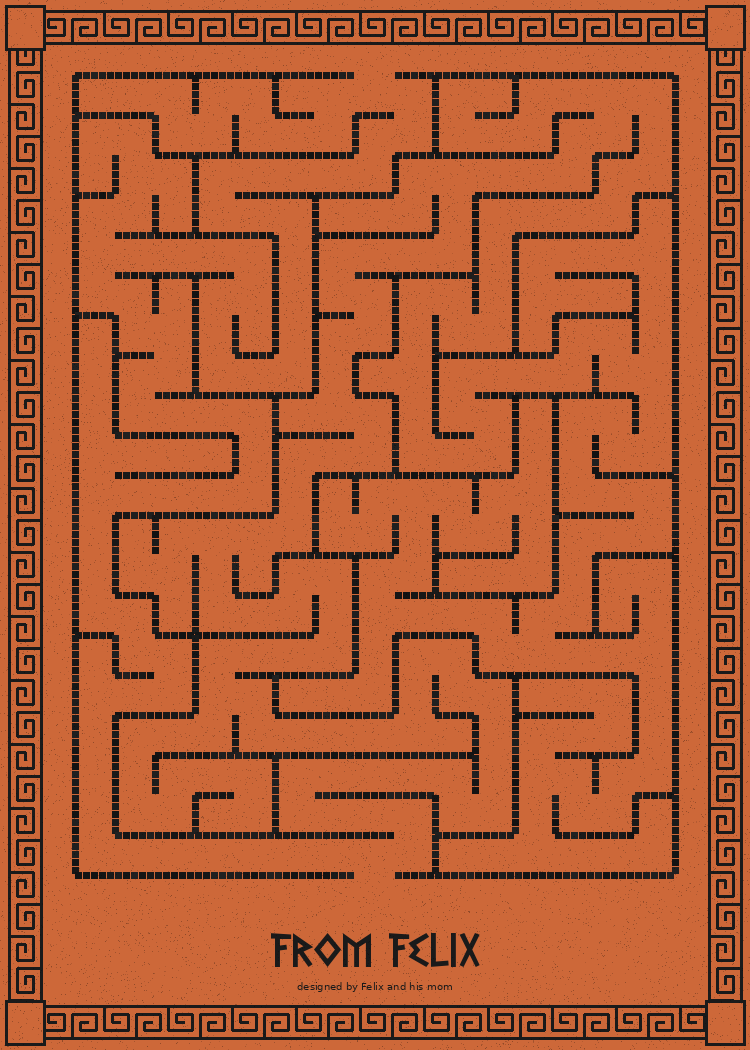
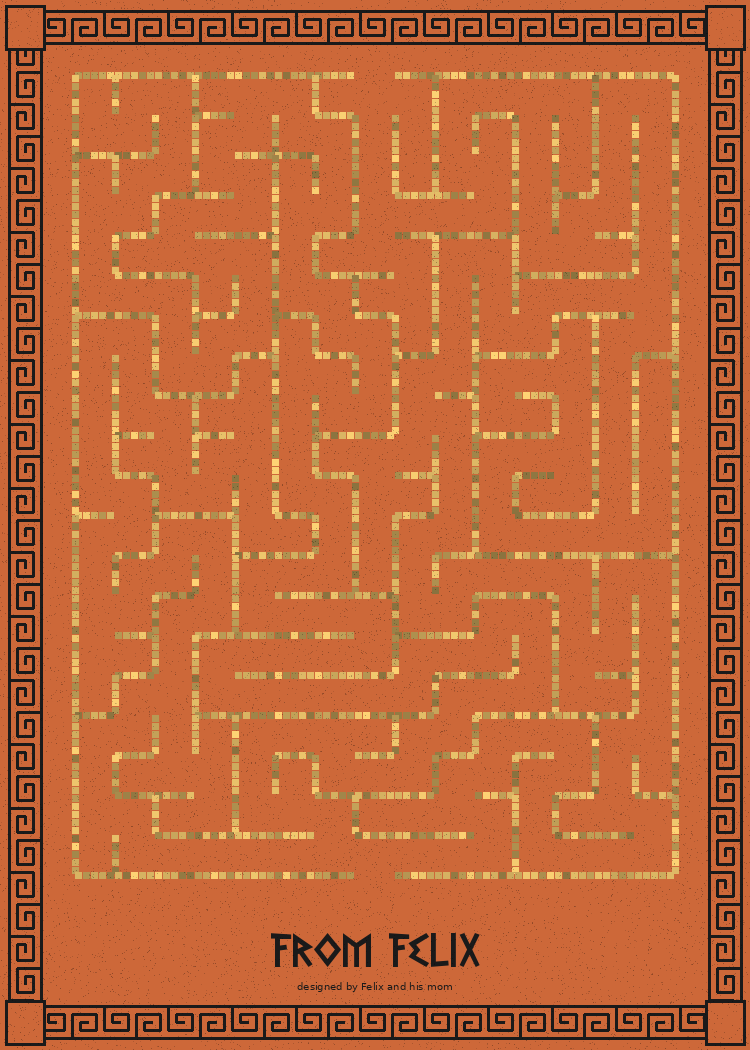
Use ochre/gold color for maze mosaic tiles

Changed region(s): [[0.092, 0.061, 0.92, 0.8533]]

diff --git a/src/greek_design_system.py b/src/greek_design_system.py
@@ -473,7 +473,7 @@ def generate_greek_card_back(
 
     # Generate and draw maze
     grid = generate_maze(maze_rows, maze_cols)
-    draw_maze(draw, grid, maze_x, maze_y, cell_size, tile_size=6, gap=2)
+    draw_maze(draw, grid, maze_x, maze_y, cell_size, tile_size=6, gap=2, wall_color="#C4A35A")
 
     # Setup fonts
     base_dir = os.path.dirname(os.path.abspath(__file__))
